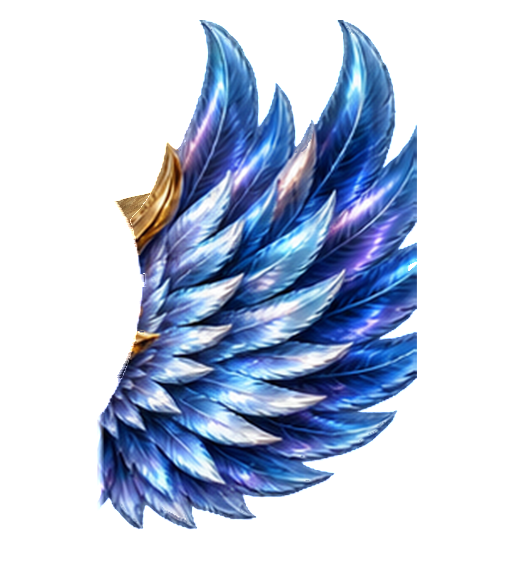
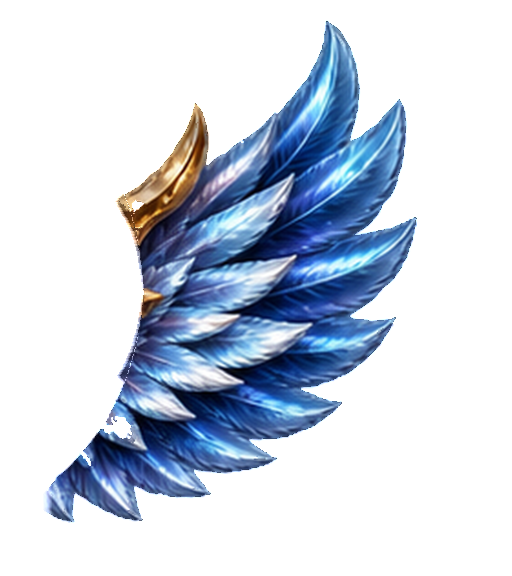
orlandochrome v403: uncut sharp-tipped Dynamo Tier IV wings & flat-cut validator

diff --git a/orlandochrome/sw.js b/orlandochrome/sw.js
@@ -1,41 +1,41 @@
 /* OrlandoChrome · Offline-First Service Worker (PWA Ready) */
-const CACHE_NAME = 'orlandochrome-arcade-v402_wings_connected_db';
+const CACHE_NAME = 'orlandochrome-arcade-v403_uncut_t4_wings';
 const ASSETS = [
   './',
   './index.html',
   './styles.css?v=arcade392_arsenal_overhaul',
-  './game.js?v=arcade402_wings_connected_db',
-  './assets/core-geometry-db.json?v=arcade402_wings_connected_db',
-  './assets/core-dynamo-t1.png?v=arcade402_wings_connected_db',
-  './assets/core-dynamo-t2.png?v=arcade402_wings_connected_db',
-  './assets/core-dynamo-t3.png?v=arcade402_wings_connected_db',
-  './assets/core-dynamo-t4.png?v=arcade402_wings_connected_db',
-  './assets/core-dynamo-t5.png?v=arcade402_wings_connected_db',
-  './assets/core-helix-t1.png?v=arcade402_wings_connected_db',
-  './assets/core-helix-t2.png?v=arcade402_wings_connected_db',
-  './assets/core-helix-t3.png?v=arcade402_wings_connected_db',
-  './assets/core-helix-t4.png?v=arcade402_wings_connected_db',
-  './assets/core-helix-t5.png?v=arcade402_wings_connected_db',
-  './assets/core-meteor-t1.png?v=arcade402_wings_connected_db',
-  './assets/core-meteor-t2.png?v=arcade402_wings_connected_db',
-  './assets/core-meteor-t3.png?v=arcade402_wings_connected_db',
-  './assets/core-meteor-t4.png?v=arcade402_wings_connected_db',
-  './assets/core-meteor-t5.png?v=arcade402_wings_connected_db',
-  './assets/core-dynamo-wing-r-t2.png?v=arcade402_wings_connected_db',
-  './assets/core-dynamo-wing-r-t3.png?v=arcade402_wings_connected_db',
-  './assets/core-dynamo-wing-r-t4.png?v=arcade402_wings_connected_db',
-  './assets/core-dynamo-wing-r-t5.png?v=arcade402_wings_connected_db',
-  './assets/core-helix-wing-r-t2.png?v=arcade402_wings_connected_db',
-  './assets/core-helix-wing-r-t3.png?v=arcade402_wings_connected_db',
-  './assets/core-helix-wing-r-t4.png?v=arcade402_wings_connected_db',
-  './assets/core-helix-wing-r-t5.png?v=arcade402_wings_connected_db',
-  './assets/core-meteor-wing-r-t2.png?v=arcade402_wings_connected_db',
-  './assets/core-meteor-wing-r-t3.png?v=arcade402_wings_connected_db',
-  './assets/core-meteor-wing-r-t4.png?v=arcade402_wings_connected_db',
-  './assets/core-meteor-wing-r-t5.png?v=arcade402_wings_connected_db',
-  './assets/core-dynamo-bezel-t5.png?v=arcade402_wings_connected_db',
-  './assets/core-helix-bezel-t5.png?v=arcade402_wings_connected_db',
-  './assets/core-helix-glass-shell.png?v=arcade402_wings_connected_db',
+  './game.js?v=arcade403_uncut_t4_wings',
+  './assets/core-geometry-db.json?v=arcade403_uncut_t4_wings',
+  './assets/core-dynamo-t1.png?v=arcade403_uncut_t4_wings',
+  './assets/core-dynamo-t2.png?v=arcade403_uncut_t4_wings',
+  './assets/core-dynamo-t3.png?v=arcade403_uncut_t4_wings',
+  './assets/core-dynamo-t4.png?v=arcade403_uncut_t4_wings',
+  './assets/core-dynamo-t5.png?v=arcade403_uncut_t4_wings',
+  './assets/core-helix-t1.png?v=arcade403_uncut_t4_wings',
+  './assets/core-helix-t2.png?v=arcade403_uncut_t4_wings',
+  './assets/core-helix-t3.png?v=arcade403_uncut_t4_wings',
+  './assets/core-helix-t4.png?v=arcade403_uncut_t4_wings',
+  './assets/core-helix-t5.png?v=arcade403_uncut_t4_wings',
+  './assets/core-meteor-t1.png?v=arcade403_uncut_t4_wings',
+  './assets/core-meteor-t2.png?v=arcade403_uncut_t4_wings',
+  './assets/core-meteor-t3.png?v=arcade403_uncut_t4_wings',
+  './assets/core-meteor-t4.png?v=arcade403_uncut_t4_wings',
+  './assets/core-meteor-t5.png?v=arcade403_uncut_t4_wings',
+  './assets/core-dynamo-wing-r-t2.png?v=arcade403_uncut_t4_wings',
+  './assets/core-dynamo-wing-r-t3.png?v=arcade403_uncut_t4_wings',
+  './assets/core-dynamo-wing-r-t4.png?v=arcade403_uncut_t4_wings',
+  './assets/core-dynamo-wing-r-t5.png?v=arcade403_uncut_t4_wings',
+  './assets/core-helix-wing-r-t2.png?v=arcade403_uncut_t4_wings',
+  './assets/core-helix-wing-r-t3.png?v=arcade403_uncut_t4_wings',
+  './assets/core-helix-wing-r-t4.png?v=arcade403_uncut_t4_wings',
+  './assets/core-helix-wing-r-t5.png?v=arcade403_uncut_t4_wings',
+  './assets/core-meteor-wing-r-t2.png?v=arcade403_uncut_t4_wings',
+  './assets/core-meteor-wing-r-t3.png?v=arcade403_uncut_t4_wings',
+  './assets/core-meteor-wing-r-t4.png?v=arcade403_uncut_t4_wings',
+  './assets/core-meteor-wing-r-t5.png?v=arcade403_uncut_t4_wings',
+  './assets/core-dynamo-bezel-t5.png?v=arcade403_uncut_t4_wings',
+  './assets/core-helix-bezel-t5.png?v=arcade403_uncut_t4_wings',
+  './assets/core-helix-glass-shell.png?v=arcade403_uncut_t4_wings',
   './assets/voidbloom-3d.png?v=arcade388_voidbloom3d',
   './assets/boss-r1-sentinel.png?v=arcade389_boss_nova',
   './assets/boss-r2-corruptor.png?v=arcade389_boss_nova',

diff --git a/orlandochrome/game.js b/orlandochrome/game.js
@@ -2332,7 +2332,7 @@
   // Ensures zero wing clipping at sprite/viewport edges and unified size scaling across all realms & tiers
   // ─────────────────────────────────────────────────────────────
   const CORE_GEOMETRY_DB = {
-    version: 'v402_wings_connected_db',
+    version: 'v403_uncut_t4_wings',
     refCanvasW: 1024,
     refCanvasH: 576,
     wingCanvasW: 512,
@@ -2348,7 +2348,7 @@
     data: null,
     load() {
       if (typeof fetch !== 'function') return;
-      fetch('assets/core-geometry-db.json?v=arcade402_wings_connected_db')
+      fetch('assets/core-geometry-db.json?v=arcade403_uncut_t4_wings')
         .then((r) => (r && r.ok ? r.json() : null))
         .then((json) => {
           if (!json || !json.tierMaxTipXRef) return;
@@ -2506,12 +2506,12 @@
   }
 
   LayeredT4Assets.helixGlassShell.onload = () => { LayeredT4Assets.loaded.helixGlassShell = true; };
-  LayeredT4Assets.helixGlassShell.src = 'assets/core-helix-glass-shell.png?v=arcade402_wings_connected_db';
+  LayeredT4Assets.helixGlassShell.src = 'assets/core-helix-glass-shell.png?v=arcade403_uncut_t4_wings';
 
   LayeredT4Assets.bezelT5.dynamo.onload = () => { LayeredT4Assets.loaded.bezelT5.dynamo = true; };
-  LayeredT4Assets.bezelT5.dynamo.src = 'assets/core-dynamo-bezel-t5.png?v=arcade402_wings_connected_db';
+  LayeredT4Assets.bezelT5.dynamo.src = 'assets/core-dynamo-bezel-t5.png?v=arcade403_uncut_t4_wings';
   LayeredT4Assets.bezelT5.helix.onload = () => { LayeredT4Assets.loaded.bezelT5.helix = true; };
-  LayeredT4Assets.bezelT5.helix.src = 'assets/core-helix-bezel-t5.png?v=arcade402_wings_connected_db';
+  LayeredT4Assets.bezelT5.helix.src = 'assets/core-helix-bezel-t5.png?v=arcade403_uncut_t4_wings';
 
   ['dynamo', 'helix', 'meteor'].forEach((m) => {
     LayeredT4Assets.halo[m].onload = () => { LayeredT4Assets.loaded.halo[m] = true; };
@@ -2530,21 +2530,21 @@
     LayeredT4Assets.coreBaseT5[m].onload = () => {
       LayeredT4Assets.loaded.coreBaseT5[m] = true;
     };
-    LayeredT4Assets.coreBaseT5[m].src = `assets/core-${m}-t5.png?v=arcade402_wings_connected_db`;
+    LayeredT4Assets.coreBaseT5[m].src = `assets/core-${m}-t5.png?v=arcade403_uncut_t4_wings`;
 
     for (let t = 1; t <= 5; t++) {
       const cImg = new Image();
       LayeredT4Assets.coreTierSprites[m][t] = cImg;
       LayeredT4Assets.loaded.coreTierSprites[m][t] = false;
       cImg.onload = () => { LayeredT4Assets.loaded.coreTierSprites[m][t] = true; };
-      cImg.src = `assets/core-${m}-t${t}.png?v=arcade402_wings_connected_db`;
+      cImg.src = `assets/core-${m}-t${t}.png?v=arcade403_uncut_t4_wings`;
 
       if (t >= 2) {
         const wImg = new Image();
         LayeredT4Assets.wingRightTiers[m][t] = wImg;
         LayeredT4Assets.loaded.wingRightTiers[m][t] = false;
         wImg.onload = () => { LayeredT4Assets.loaded.wingRightTiers[m][t] = true; };
-        wImg.src = `assets/core-${m}-wing-r-t${t}.png?v=arcade402_wings_connected_db`;
+        wImg.src = `assets/core-${m}-wing-r-t${t}.png?v=arcade403_uncut_t4_wings`;
       }
     }
   });

diff --git a/orlandochrome/index.html b/orlandochrome/index.html
@@ -2683,7 +2683,7 @@
           <canvas class="oc-realm-btn-fx" aria-hidden="true"></canvas>
           <span class="oc-realm-orb oc-realm-orb-dynamo" aria-hidden="true">
             <span class="oc-realm-orb-ring"></span>
-            <span class="oc-realm-orb-clip"><img src="assets/core-dynamo-t5.png?v=arcade402_wings_connected_db" alt="" class="oc-realm-orb-img" /></span>
+            <span class="oc-realm-orb-clip"><img src="assets/core-dynamo-t5.png?v=arcade403_uncut_t4_wings" alt="" class="oc-realm-orb-img" /></span>
           </span>
           <span class="game-btn-label oc-realm-label">DYNAMO</span>
         </button>
@@ -2692,7 +2692,7 @@
           <canvas class="oc-realm-btn-fx" aria-hidden="true"></canvas>
           <span class="oc-realm-orb oc-realm-orb-helix" aria-hidden="true">
             <span class="oc-realm-orb-ring"></span>
-            <span class="oc-realm-orb-clip"><img src="assets/core-helix-t5.png?v=arcade402_wings_connected_db" alt="" class="oc-realm-orb-img" /></span>
+            <span class="oc-realm-orb-clip"><img src="assets/core-helix-t5.png?v=arcade403_uncut_t4_wings" alt="" class="oc-realm-orb-img" /></span>
           </span>
           <span class="game-btn-label oc-realm-label">HELIX</span>
         </button>
@@ -2701,7 +2701,7 @@
           <canvas class="oc-realm-btn-fx" aria-hidden="true"></canvas>
           <span class="oc-realm-orb oc-realm-orb-meteor" aria-hidden="true">
             <span class="oc-realm-orb-ring"></span>
-            <span class="oc-realm-orb-clip"><img src="assets/core-meteor-t5.png?v=arcade402_wings_connected_db" alt="" class="oc-realm-orb-img" /></span>
+            <span class="oc-realm-orb-clip"><img src="assets/core-meteor-t5.png?v=arcade403_uncut_t4_wings" alt="" class="oc-realm-orb-img" /></span>
           </span>
           <span class="game-btn-label oc-realm-label">METEOR</span>
         </button>
@@ -3149,7 +3149,7 @@
                 <span class="oc-go-emblem-ring"></span>
                 <span class="oc-go-emblem-ring-inner"></span>
                 <span class="oc-go-emblem-clip">
-                  <img id="cgRealmEmblemImg" class="oc-go-emblem-img" src="assets/core-dynamo-t5.png?v=arcade402_wings_connected_db" alt="" />
+                  <img id="cgRealmEmblemImg" class="oc-go-emblem-img" src="assets/core-dynamo-t5.png?v=arcade403_uncut_t4_wings" alt="" />
                 </span>
               </div>
 
@@ -3285,7 +3285,7 @@
       </div>
     </div>
   </div>
-  <script src="game.js?v=arcade402_wings_connected_db"></script>
+  <script src="game.js?v=arcade403_uncut_t4_wings"></script>
   <!-- BuildStamp: 2026-11-17T13:55:00.000Z - Quantum Chromatic Monogram v314 -->
 
 </body>
